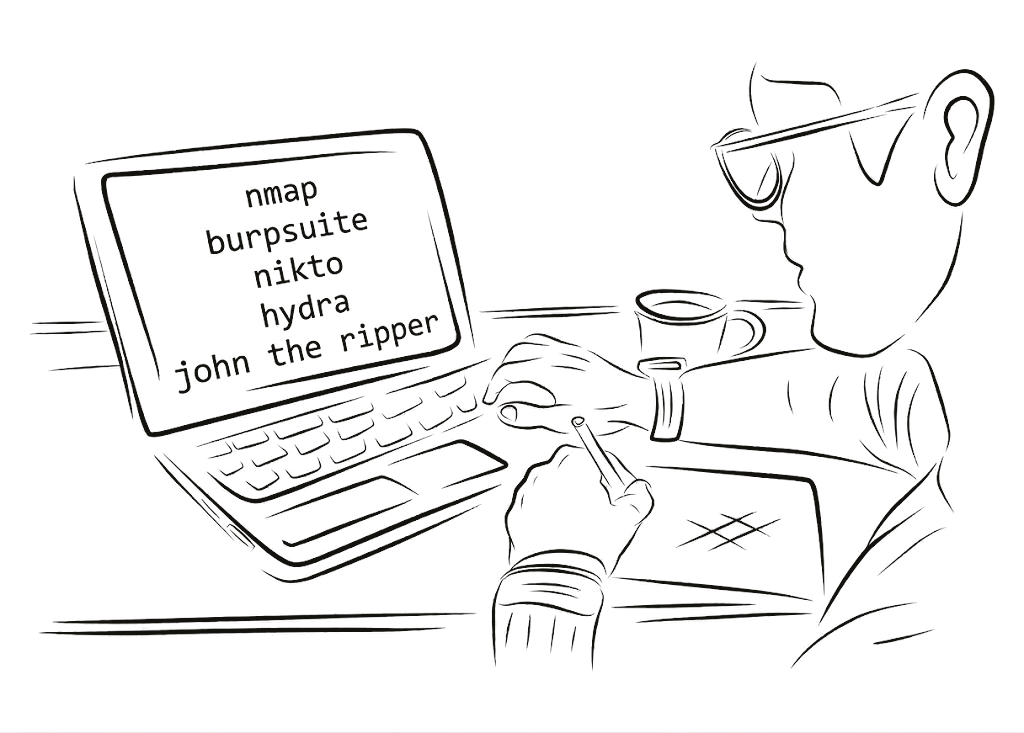
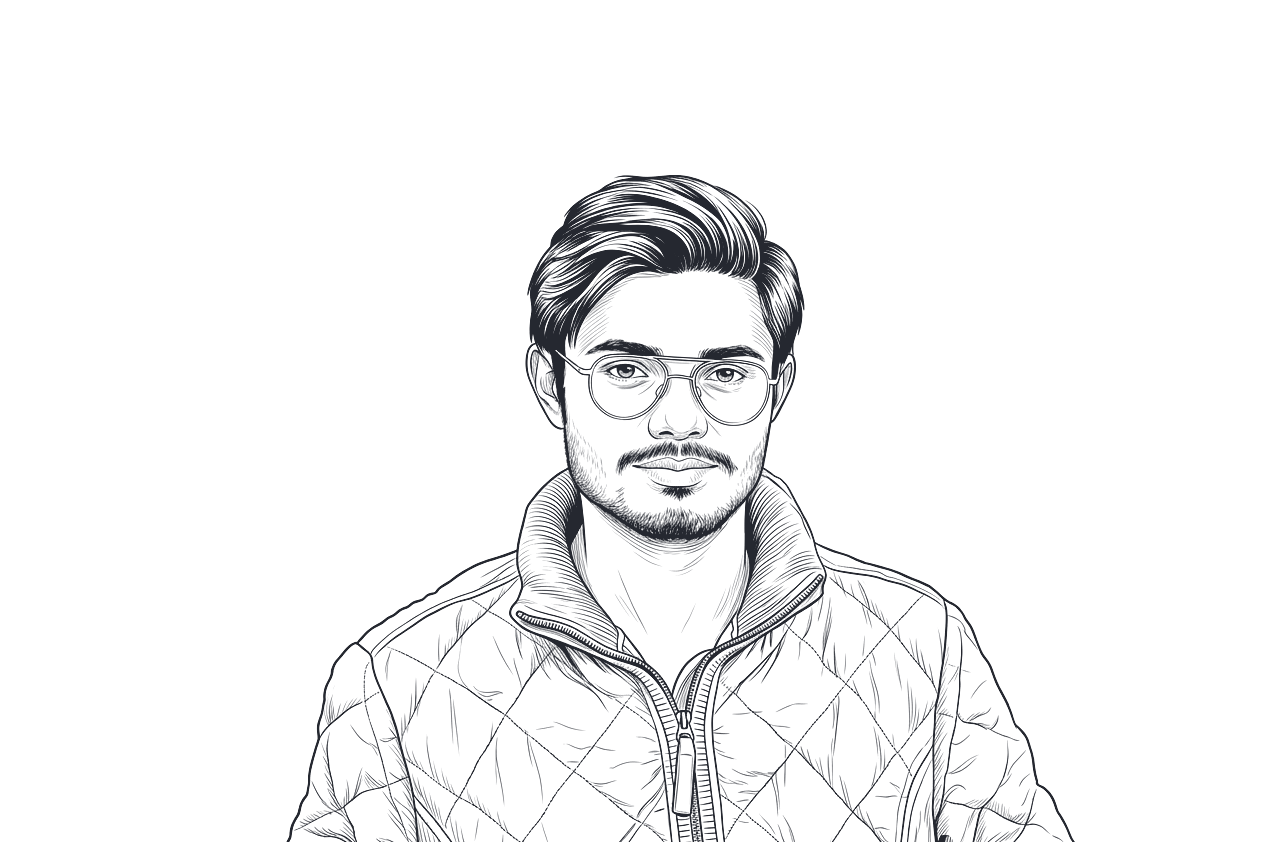
Replace the hero portrait with the new line-art bust
Swaps assets/portrait-source.jpg (the person-at-laptop illustration)
for the Div.png supplied in Downloads: a proper head-and-shoulders
portrait in the same line-art style. Verified the source before
running it through the pipeline — real (opaque) white background, not
a pre-existing alpha channel, so it needed the same darkness-to-alpha
treatment as before, not a plain copy.

Caught a real bug while touching this: scripts/gen-assets.mjs baked in
the ink colour as a literal 0x14/0x12/0x0f, which was --ink from the
site's original cream palette. The design system moved to the current
cool blue-black system (--ink: #252830) weeks ago and this constant
was never updated, so the portrait has been quietly rendering in the
wrong ink ever since. Fixed, and verified numerically before trusting
it — read the output PNG's own pixels back (background alpha 0, ink
RGB 0x252830, ~92% transparent / 2.5% opaque / 6% antialiased edge —
a sane distribution for line art) rather than eyeballing a render on
a white viewer background, which would have hidden exactly this class
of bug.

Also corrected the <img> width/height (1024x733 -> 1264x842, the new
source's actual pixels — stale values cause a layout shift on load),
rewrote portraitAlt to describe the new image instead of the old
laptop/terminal scene, and updated the two stale README/code comments
that still pointed at the old .jpg source and the old "sit on the
cream" wording. Checked on the live page at 1440px and 390px, not just
[…]

diff --git a/src/data/site.ts b/src/data/site.ts
@@ -20,13 +20,12 @@ export const person = {
   // Shown as the status line in the sidebar. Set to '' to hide it.
   availability: 'Available for hire',
 
-  // Illustration beside the hero. Generated from assets/portrait-source.jpg
+  // Illustration beside the hero. Generated from assets/portrait-source.png
   // by `npm run assets`, which cuts a real alpha channel so the strokes sit
-  // on the cream with no visible panel. Set to '' and the layout closes up
-  // with nothing missing.
+  // on the page ground with no visible panel behind them. Set to '' and the
+  // layout closes up with nothing missing.
   portrait: '/portrait.png',
-  portraitAlt:
-    'Line drawing of a person at a laptop, the screen listing nmap, burpsuite, nikto, hydra and john the ripper.',
+  portraitAlt: 'Line-art portrait of Divyansh Agrawal.',
 
   // Where you'll work. Recruiters filter on this hard.
   openTo: 'Security engineering · Penetration testing · India & remote / relocation',

diff --git a/README.md b/README.md
@@ -23,11 +23,14 @@ want in the sidebar; every link appears in the footer and on the About page
 either way.
 
 The hero illustration is `public/portrait.png`, generated from
-`assets/portrait-source.jpg` by `npm run assets`. To change it, replace the
+`assets/portrait-source.png` by `npm run assets`. To change it, replace the
 source file and re-run that command — it cuts a real alpha channel from the
-line art so the strokes sit on the cream with no visible panel behind them.
-Set `person.portrait` to `''` to remove it; the layout closes up with nothing
-missing.
+line art so the strokes sit on the page ground with no visible panel behind
+them. Update `person.portraitAlt` and the `width`/`height` on the `<img>` in
+`src/pages/index.astro` to match the new source's actual pixel dimensions —
+they're not derived automatically, and leaving them stale causes a small
+layout shift when the image loads. Set `person.portrait` to `''` to remove
+it; the layout closes up with nothing missing.
 
 ### Publish a writeup
 
